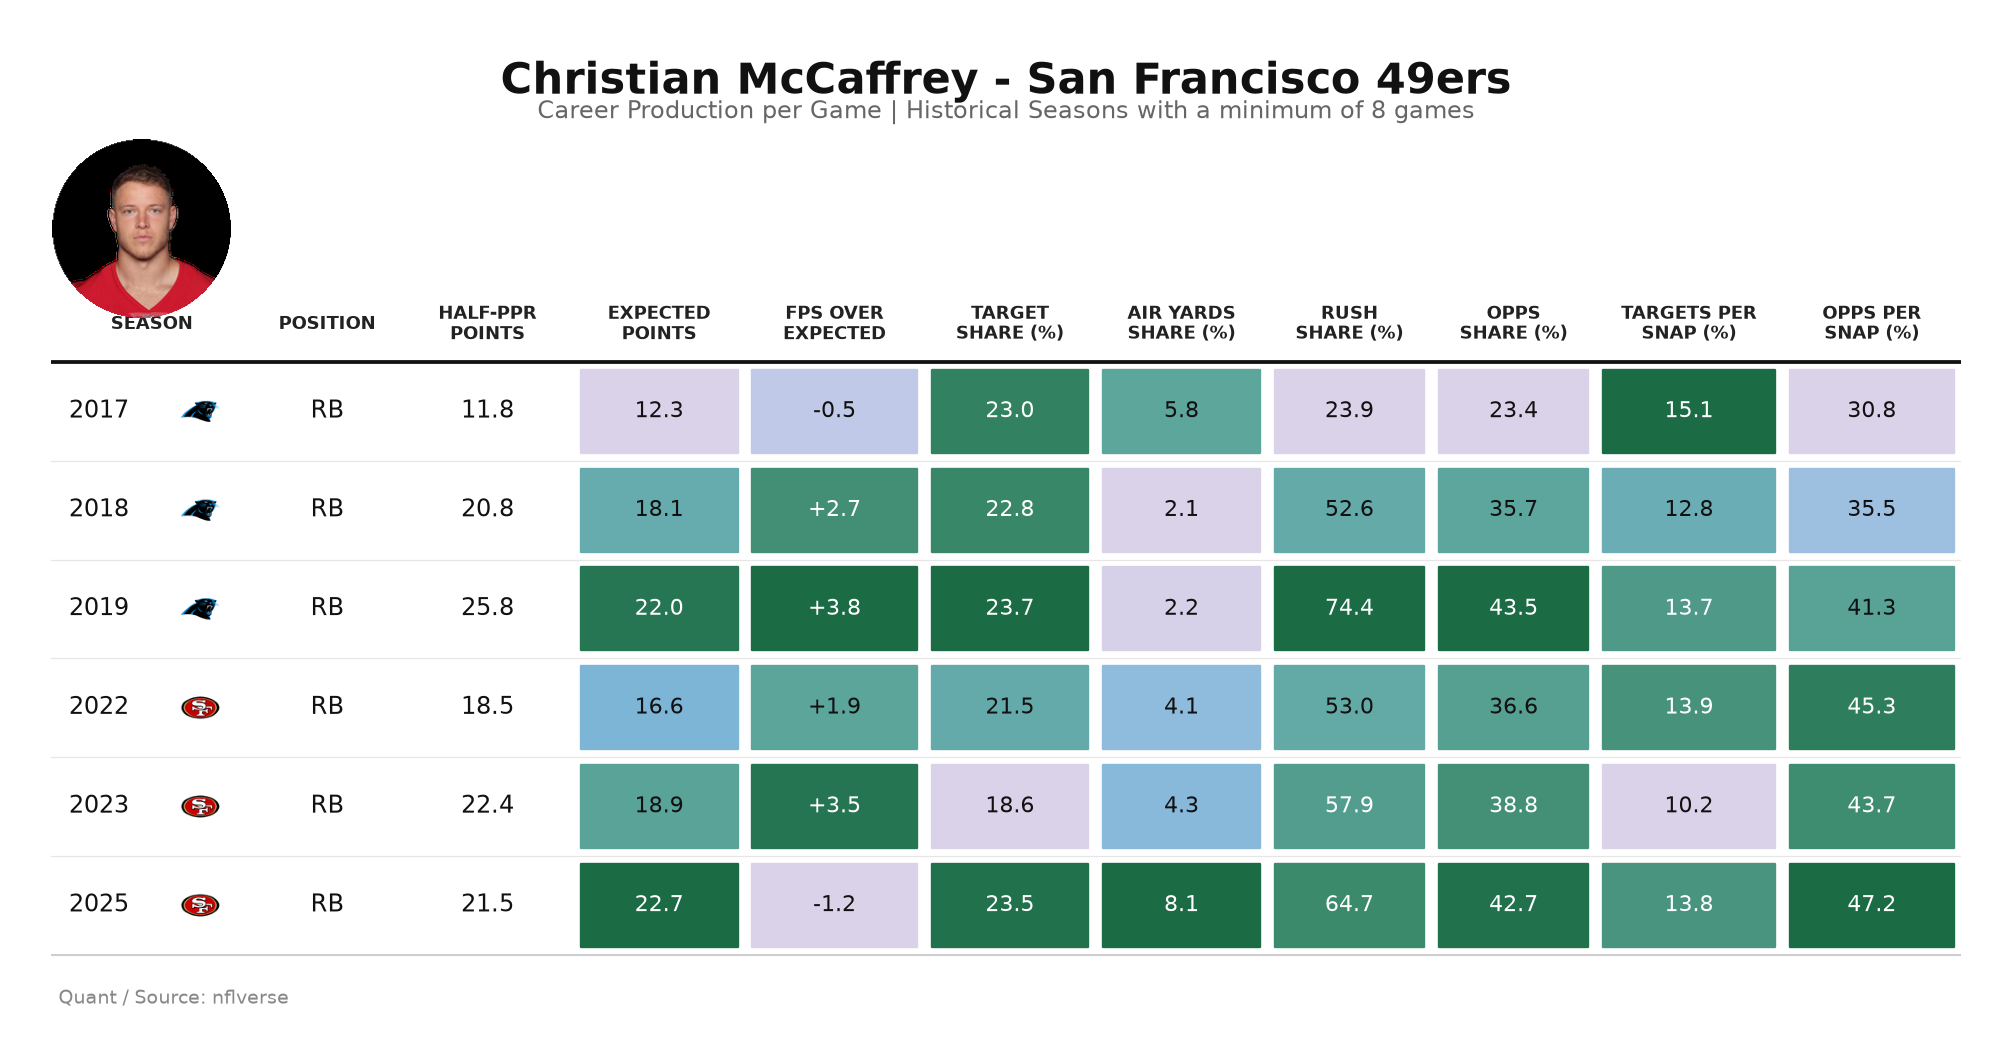
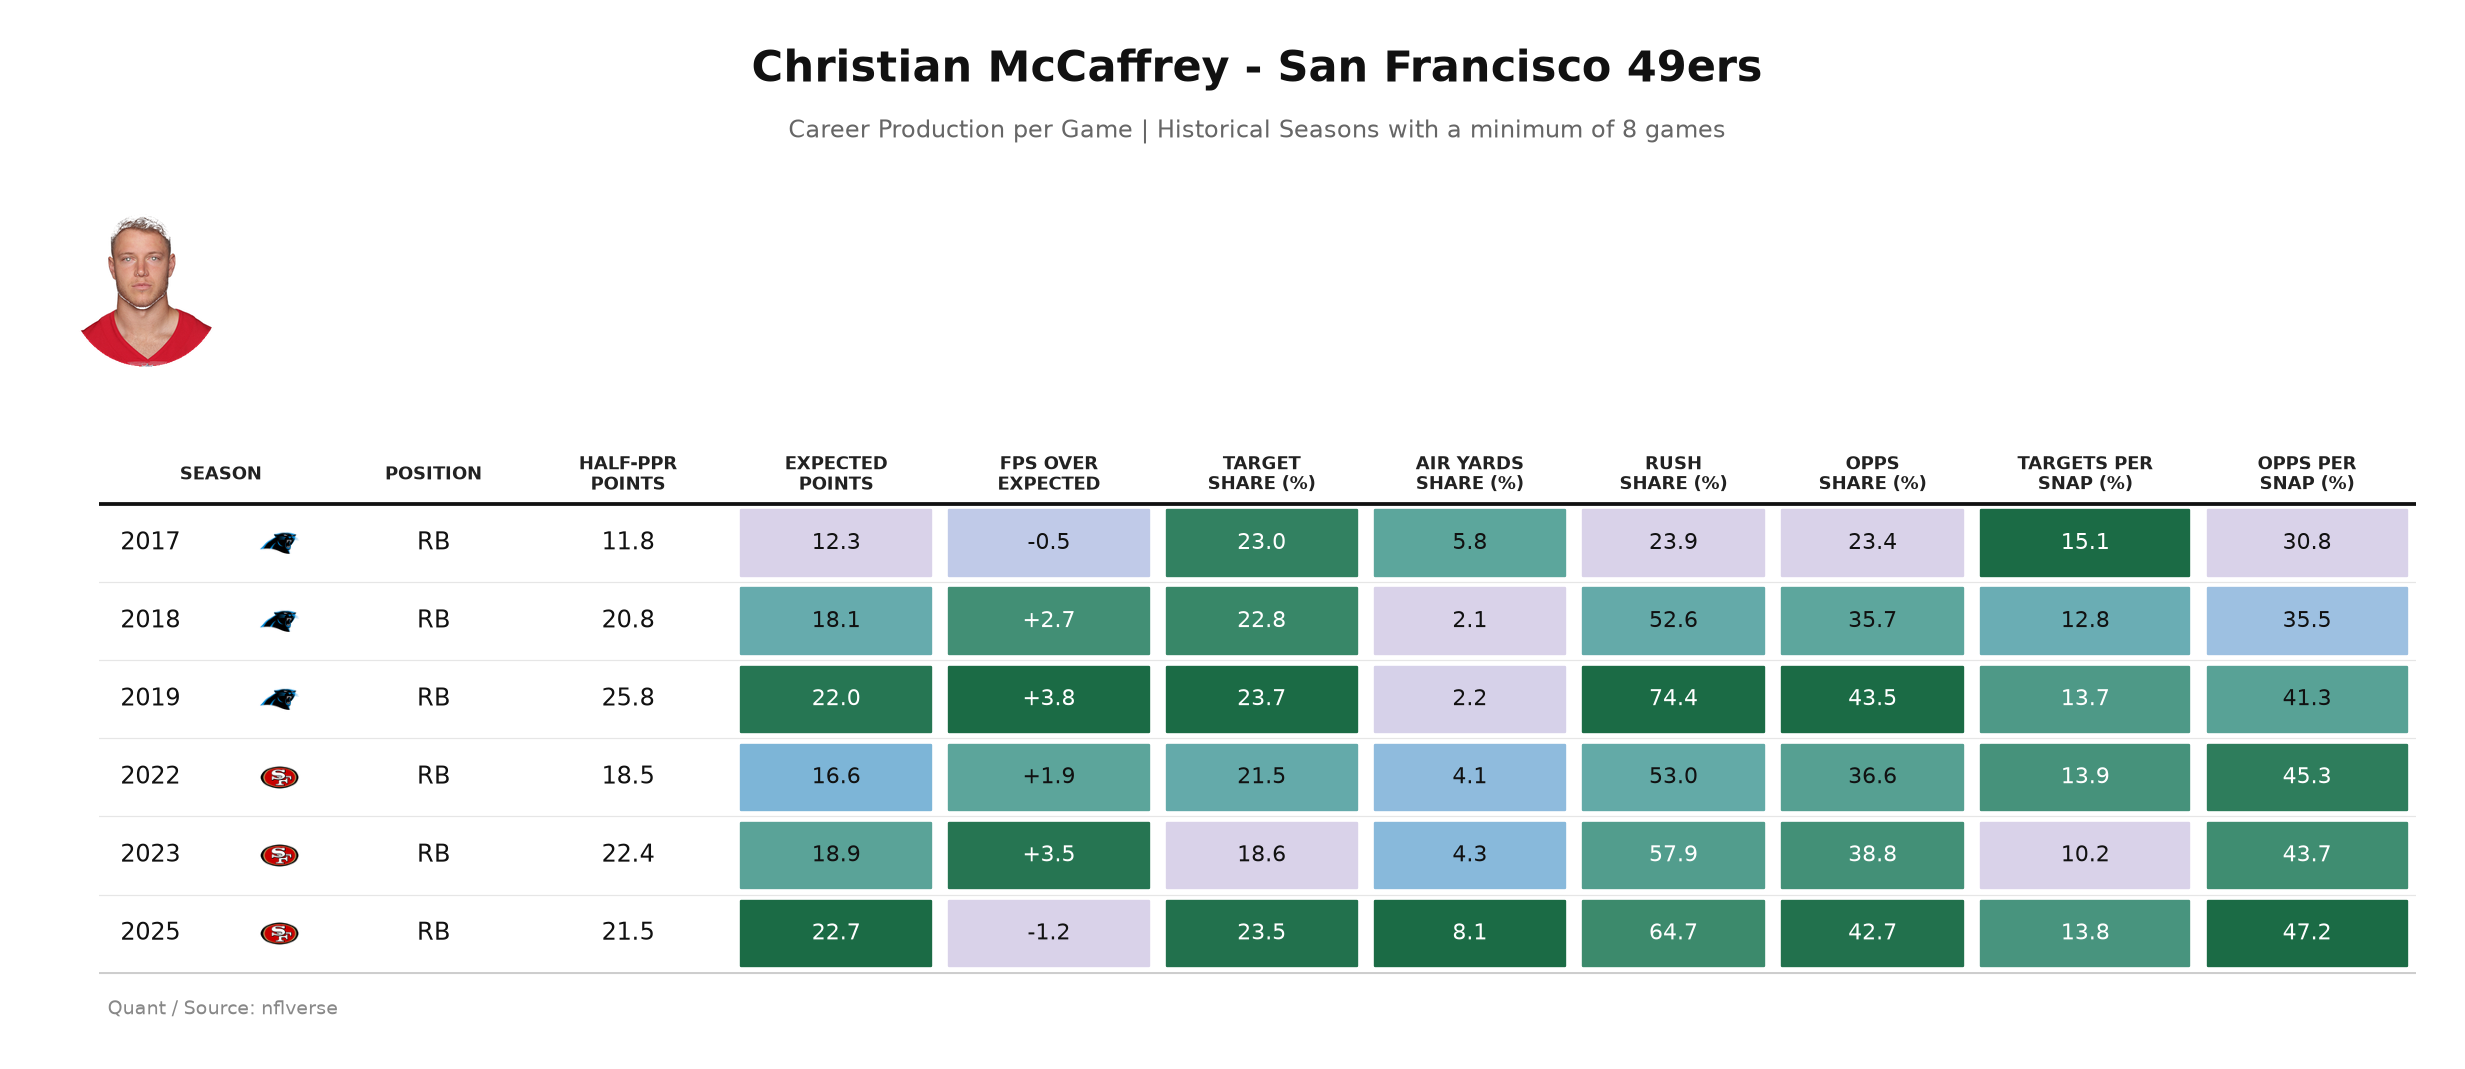
Fix RB headshot: no black backdrop, no text overlap
Key out NFL.com studio black, composite onto white circle, paste
square pixels into a blank band under the title (PIL, not mpl axes).

diff --git a/scripts/rb_career_production.py b/scripts/rb_career_production.py
@@ -108,6 +108,7 @@ def download_logo(abbr: str, teams: pl.DataFrame) -> Path | None:
 
 
 def circular_headshot(url: str | None, gsis_id: str, size: int = 160) -> Image.Image | None:
+    """Load nflverse/NFL.com headshot; drop black studio backdrop; circular crop."""
     HEADSHOT_DIR.mkdir(parents=True, exist_ok=True)
     dest = HEADSHOT_DIR / f"{gsis_id}.png"
     img = None
@@ -125,17 +126,45 @@ def circular_headshot(url: str | None, gsis_id: str, size: int = 160) -> Image.I
             return None
     if img is None:
         return None
-    # Center-crop to square first — NFL headshots are portrait; bare resize squashes faces
-    w, h = img.size
-    side = min(w, h)
-    left = (w - side) // 2
-    top = (h - side) // 2
-    img = img.crop((left, top, left + side, top + side))
-    img = img.resize((size, size), Image.Resampling.LANCZOS)
+
+    arr = np.asarray(img).copy()
+    # Punch studio backdrop: near-black OR near corner color
+    corners = np.vstack([
+        arr[0, 0, :3], arr[0, -1, :3], arr[-1, 0, :3], arr[-1, -1, :3]
+    ]).astype(np.int16)
+    corner = np.median(corners, axis=0)
+    rgb = arr[:, :, :3].astype(np.int16)
+    dist = np.abs(rgb - corner).sum(axis=2)
+    luma = rgb.mean(axis=2)
+    backdrop = (dist < 55) | (luma < 45)
+    arr[backdrop, 3] = 0
+    img = Image.fromarray(arr, mode="RGBA")
+
+    # Opaque bbox, then FACE-WEIGHTED square crop (NFL.com plates are wide torso shots)
+    alpha = np.asarray(img)[:, :, 3]
+    ys, xs = np.where(alpha > 20)
+    if len(xs) == 0:
+        return None
+    left, right = int(xs.min()), int(xs.max()) + 1
+    top, bottom = int(ys.min()), int(ys.max()) + 1
+    bw, bh = right - left, bottom - top
+    side = min(bw, bh)
+    if bw >= bh:
+        left2 = left + (bw - side) // 2
+        top2 = top
+    else:
+        left2 = left
+        top2 = top + (bh - side) // 5
+    img = img.crop((left2, top2, left2 + side, top2 + side))
+    square = img.resize((size, size), Image.Resampling.LANCZOS)
+
+    # Composite onto white, then circular mask — no black halo on white charts
+    white = Image.new("RGBA", (size, size), (255, 255, 255, 255))
+    white.paste(square, (0, 0), square)
     mask = Image.new("L", (size, size), 0)
-    ImageDraw.Draw(mask).ellipse((0, 0, size - 1, size - 1), fill=255)
+    ImageDraw.Draw(mask).ellipse((1, 1, size - 2, size - 2), fill=255)
     out = Image.new("RGBA", (size, size), (0, 0, 0, 0))
-    out.paste(img, (0, 0))
+    out.paste(white, (0, 0))
     out.putalpha(mask)
     return out
 
@@ -496,65 +525,48 @@ def plot_heatmap(
 
     row_h = 0.42
     header_h = 0.95
-    # Title band + headshot band + gap before column headers (no overlap)
-    title_pad = 3.15
     fig_w = 14.5
-    fig_h = title_pad + header_h + n * row_h + 0.7
-    fig, ax = plt.subplots(figsize=(fig_w, fig_h))
+    table_data_h = n + header_h * 0.55 + 0.55
+    # Leave a dedicated blank band (inches) under the title for the PIL headshot paste
+    head_band_in = 1.15
+    fig_h = 0.90 + head_band_in + max(3.2, table_data_h * 0.55) + 0.35
+    fig = plt.figure(figsize=(fig_w, fig_h), facecolor="white")
+    gs = fig.add_gridspec(
+        3, 1,
+        height_ratios=[0.90, head_band_in, max(3.2, table_data_h * 0.55)],
+        hspace=0.25,
+        left=0.04, right=0.98, top=0.97, bottom=0.05,
+    )
+
+    # Band 1: centered title only
+    ax_title = fig.add_subplot(gs[0, 0])
+    ax_title.set_facecolor("white")
+    ax_title.axis("off")
+    ax_title.text(
+        0.5, 0.70, title,
+        transform=ax_title.transAxes,
+        ha="center", va="center",
+        fontsize=18, fontweight="bold", color="#111",
+    )
+    ax_title.text(
+        0.5, 0.22, subtitle,
+        transform=ax_title.transAxes,
+        ha="center", va="center",
+        fontsize=10, color="#666",
+    )
+
+    # Band 2: empty white spacer — headshot pasted here later via PIL (no mpl distortion)
+    ax_gap = fig.add_subplot(gs[1, 0])
+    ax_gap.set_facecolor("white")
+    ax_gap.axis("off")
+
+    # Band 3: table only
+    ax = fig.add_subplot(gs[2, 0])
     ax.set_xlim(0, total_w)
-    ax.set_ylim(-0.55, n + title_pad)
+    ax.set_ylim(-0.55, n + header_h * 0.55)
     ax.axis("off")
-    fig.patch.set_facecolor("white")
     ax.set_facecolor("white")
 
-    # Title / subtitle — centered at top
-    ax.text(
-        total_w / 2,
-        n + title_pad - 0.10,
-        title,
-        fontsize=18,
-        fontweight="bold",
-        color="#111",
-        ha="center",
-        va="top",
-        clip_on=False,
-        zorder=8,
-    )
-    ax.text(
-        total_w / 2,
-        n + title_pad - 0.50,
-        subtitle,
-        fontsize=10,
-        color="#666",
-        ha="center",
-        va="top",
-        clip_on=False,
-        zorder=8,
-    )
-
-    # Headshot: nflverse load_players.headshot (NFL.com URL).
-    # Place in its own band ABOVE column headers; draw in axes-fraction
-    # so data-aspect doesn't squash the circle.
-    hs = circular_headshot(player.get("headshot"), player["gsis_id"], size=180)
-    if hs is not None:
-        # axes y: headshot center ~ midway between subtitle and header row
-        # Convert desired data y → axes fraction for undistorted OffsetImage
-        y_data = n + 1.35
-        y_ax = (y_data - (-0.55)) / ((n + title_pad) - (-0.55))
-        x_ax = (xs[0] + widths[0] * 0.45) / total_w
-        im = OffsetImage(np.asarray(hs), zoom=0.42)
-        ab = AnnotationBbox(
-            im,
-            (x_ax, y_ax),
-            xycoords="axes fraction",
-            frameon=False,
-            pad=0,
-            box_alignment=(0.5, 0.5),
-            zorder=6,
-        )
-        ax.add_artist(ab)
-
-    # Header labels (well below headshot band)
     header_y = n + 0.05
     for i, lab in enumerate(col_labels):
         cx = xs[i] + widths[i] / 2
@@ -570,8 +582,9 @@ def plot_heatmap(
             linespacing=1.15,
             zorder=5,
         )
-    # Header underline
     ax.plot([0, total_w], [n, n], color="#111", lw=1.6, zorder=5)
+
+
 
     cmap = _heat_cmap()
     # Column-wise min/max for heat columns
@@ -698,8 +711,39 @@ def plot_heatmap(
     )
 
     out.parent.mkdir(parents=True, exist_ok=True)
-    fig.savefig(out, dpi=170, facecolor="white", bbox_inches="tight", pad_inches=0.3)
+    dpi = 170
+    buf = io.BytesIO()
+    fig.savefig(buf, format="png", dpi=dpi, facecolor="white")
     plt.close(fig)
+    buf.seek(0)
+    base = Image.open(buf).convert("RGBA")
+
+    # Paste circular headshot into the blank band under the title (true pixels, no squash)
+    hs = circular_headshot(player.get("headshot"), player["gsis_id"], size=280)
+    if hs is not None:
+        target = int(0.90 * dpi)  # ~0.90" square — stays inside head band
+        hs = hs.resize((target, target), Image.Resampling.LANCZOS)
+        W, H = base.size
+        # Place fully inside the blank band under the title (never clip, never cover table)
+        # Title band ≈ top 12% ; table header rule ≈ start of lower 55%+
+        arr = np.asarray(base.convert("L"))
+        mid = arr[:, W // 5 : W * 4 // 5]
+        row_dark = (mid < 60).mean(axis=1)
+        rules = np.where(row_dark > 0.20)[0]
+        # Skip very top (title ink); take first rule in lower-upper region
+        rules = rules[rules > int(0.14 * H)]
+        rule_y = int(rules[0]) if len(rules) else int(0.42 * H)
+        band_top = int(0.125 * H)  # below subtitle
+        band_bot = rule_y - 8
+        y = (band_top + band_bot - target) // 2
+        y = int(np.clip(y, band_top, max(band_top, band_bot - target)))
+        x = int(0.028 * W)
+        # Final safety: must not cover title or table rule
+        assert y >= 4 and y + target <= rule_y - 4, (y, target, rule_y, H)
+        base.paste(hs, (x, y), hs)
+
+    base.convert("RGB").save(out, format="PNG", optimize=True)
+
 
 
 def main() -> int:
